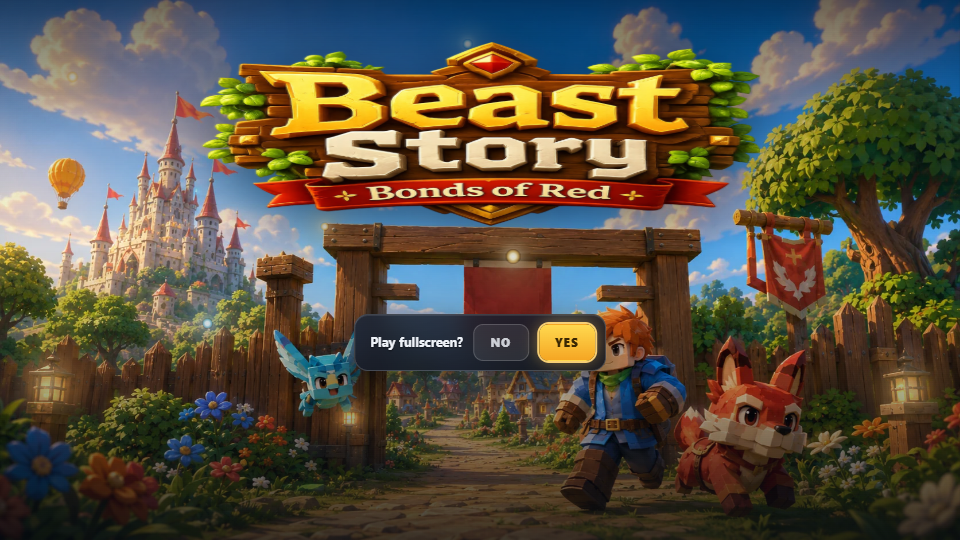
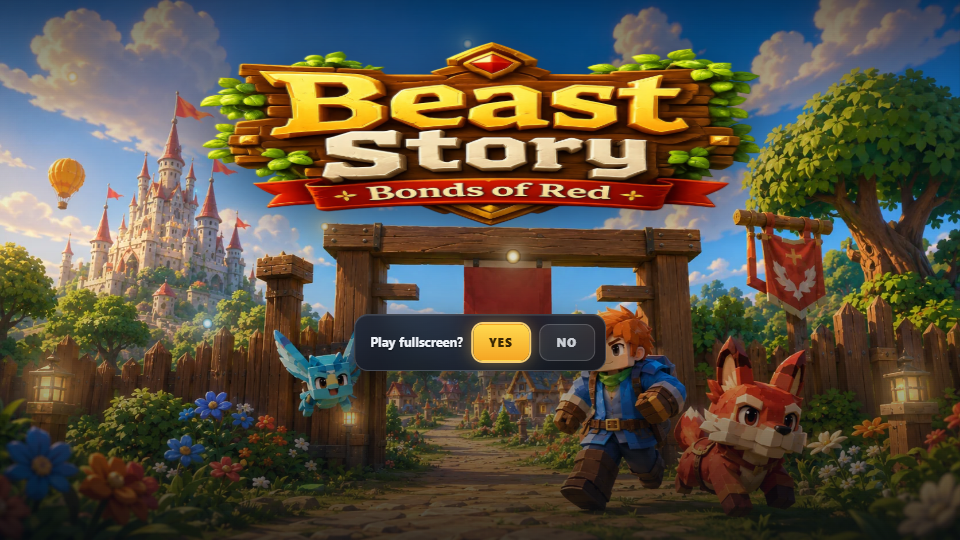
Put YES before NO in the fullscreen question
The pill is an offer, so the thing being offered should lead. Reading
order and focus order are the same list, and with NO first the menu's
default focus had to jump over a button to land on YES; now it starts
where the markup starts.

test-menu.mjs steps RIGHT off YES to reach NO rather than left, which is
the adjacency that actually exists now -- pressed left it would have
wrapped around the end of the ring and passed for the wrong reason.

Changed region(s): [[0.4688, 0.563, 0.625, 0.6815]]

diff --git a/src/ui/fullscreen.ts b/src/ui/fullscreen.ts
@@ -141,10 +141,15 @@ export class FullscreenPrompt {
 
     const el = document.createElement('div');
     el.className = `bs-fsprompt${opts.inMenu ? ' in-menu' : ''}`;
+    // YES FIRST. The order is the reading order and the focus order at once:
+    // this is an offer, so the thing being offered leads, and the cursor starts
+    // on it without having to be sent there against the grain of the markup.
+    // (It was NO then YES, which put the affirmative answer last and made the
+    // menu's default focus jump over a button to reach it.)
     el.innerHTML =
       `<div class="txt">${t('fs.prompt')}</div>` +
-      `<button class="bs-fs-btn no" type="button">${t('fs.no')}</button>` +
-      `<button class="bs-fs-btn yes" type="button">${t('fs.yes')}</button>`;
+      `<button class="bs-fs-btn yes" type="button">${t('fs.yes')}</button>` +
+      `<button class="bs-fs-btn no" type="button">${t('fs.no')}</button>`;
     this.el = el;
 
     const yes = el.querySelector('.bs-fs-btn.yes') as HTMLButtonElement;
